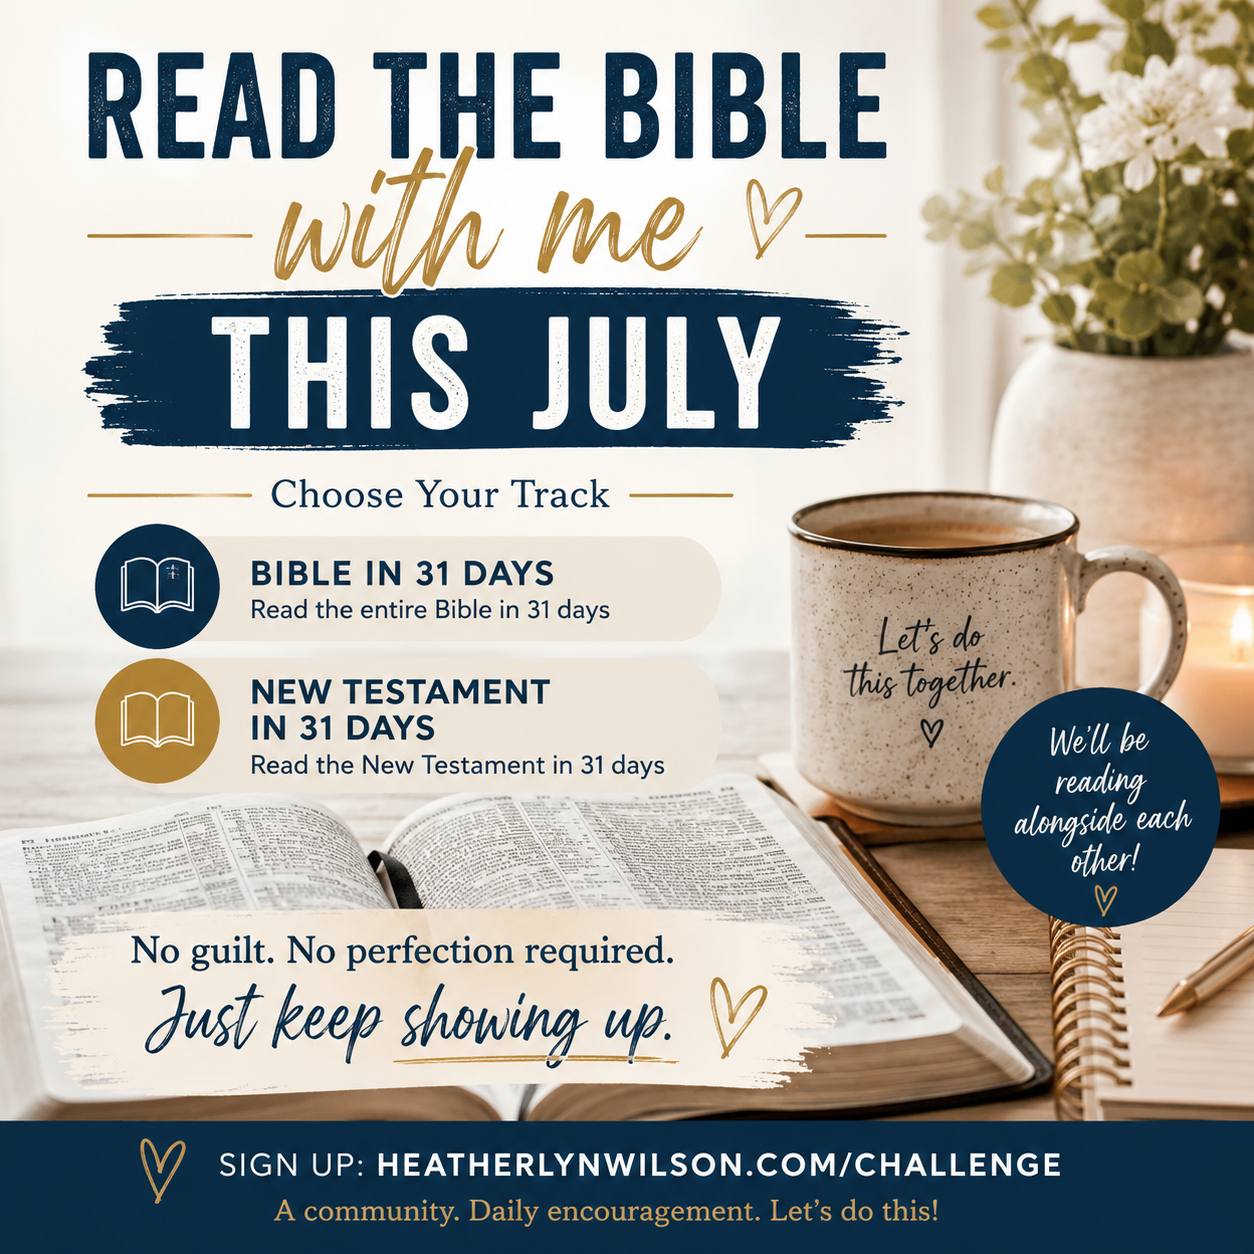
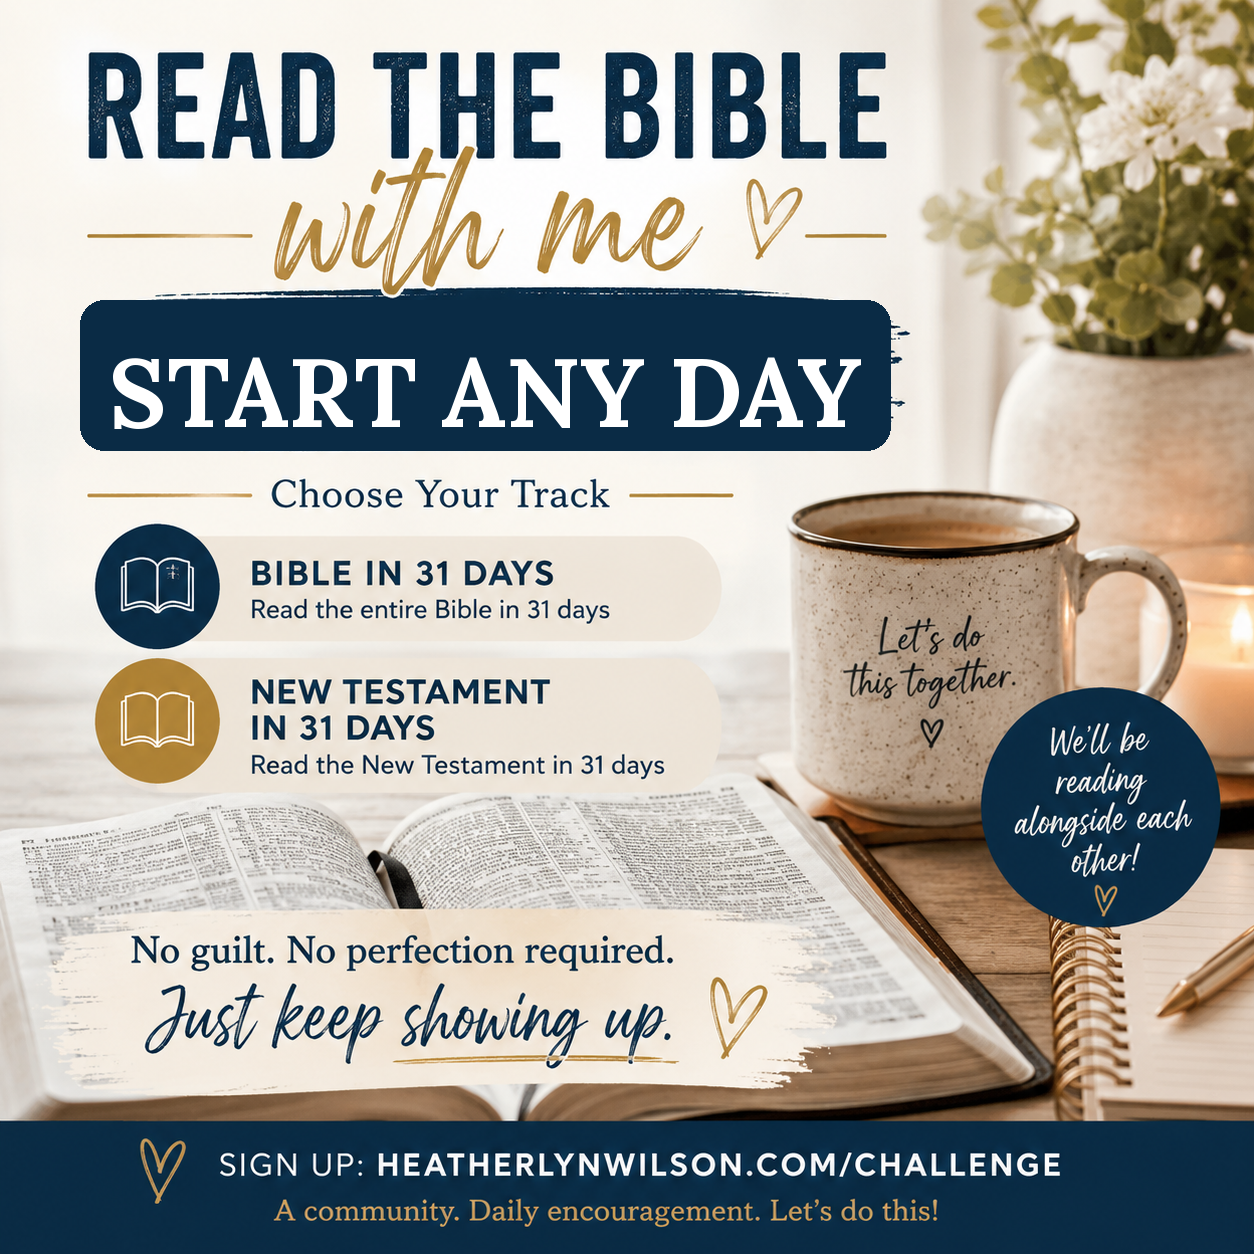
Retire the July-dated challenge graphic everywhere
The old og-challenge image said THIS JULY and was still the social
image for the September, November, and December promos. All code now
uses the dateless START ANY DAY version, and the old file's content
is replaced with the dateless art so no stale reference anywhere can
ever show a July date again.

Claude-Session: https://claude.ai/code/session_017BJLuFcr4fjBdhRT38ZM39

Changed region(s): [[0.0622, 0.2177, 0.7153, 0.3732]]

diff --git a/workers/blog-cron/src/index.js b/workers/blog-cron/src/index.js
@@ -613,7 +613,7 @@ const FB_CHALLENGE_PROMOS = {
   "september-beatitudes-2026": {
     start: "2026-09-01",
     link: SITE + "/challenge-beatitudes",
-    image: SITE + "/images/og-challenge.png",
+    image: SITE + "/images/og-challenge-v2.png",
     posts: [
       "What if you memorized the Beatitudes this September?\n\nHide It In Your Heart: 30 days, one line at a time, a memory game on your dashboard that hides more words each day. By Day 30 you say the whole passage from memory.\n\nPick your translation and join us.",
       "Once Scripture is in you, no one can take it. It is there in the hard moments, the waiting, the times you do not know what to pray.\n\nThis September, memorize the Beatitudes with me. One line at a time. 30 days. Join us.",
@@ -633,7 +633,7 @@ const FB_CHALLENGE_PROMOS = {
   "november-thanks-2026": {
     start: "2026-11-01",
     link: SITE + "/challenge-thanks",
-    image: SITE + "/images/og-challenge.png",
+    image: SITE + "/images/og-challenge-v2.png",
     posts: [
       "This November: one psalm a day, one short note from me, and three things you are thankful for.\n\nBy the end your list will be ninety long, and you can read it at the table.\n\nGive Thanks starts November 1st.",
       "What if you spent November building a gratitude list instead of a wish list?\n\nGive Thanks: a psalm a day, a gratitude prompt, and by Thanksgiving you have ninety things written down. Join us.",
@@ -643,7 +643,7 @@ const FB_CHALLENGE_PROMOS = {
   "december-gospels-2026": {
     start: "2026-12-01",
     link: SITE + "/challenge-gospels",
-    image: SITE + "/images/og-challenge.png",
+    image: SITE + "/images/og-challenge-v2.png",
     posts: [
       "This December, read the Gospels with me.\n\nMark shows you what Jesus did. John tells you who He is. Matthew proves He is the promised King. And Luke sits you at the manger on Christmas Eve.\n\nOr just read Luke, one chapter a day, and finish by Christmas Eve.",
       "What if this Christmas you knew exactly who that baby was?\n\nGod With Us: all four Gospels in December, ending at the manger on Christmas Eve. Or just Luke, one chapter a day.\n\nStarts December 1st.",
@@ -1688,7 +1688,7 @@ async function postBeatitudesRecruitment(env) {
     if (!ins.meta || ins.meta.changes === 0) { console.log("Beatitudes social post already sent today."); return; }
   } catch (e) {}
 
-  const imageUrl = todayPost.useImage ? (SITE + "/images/og-challenge.png") : "";
+  const imageUrl = todayPost.useImage ? (SITE + "/images/og-challenge-v2.png") : "";
 
   try {
     const hasImage = !!imageUrl;

diff --git a/functions/api/fb-posts.js b/functions/api/fb-posts.js
@@ -28,7 +28,7 @@ const CHALLENGE_PROMOS = {
   },
   "september-beatitudes-2026": {
     start: "2026-09-01", link: "https://heatherlynwilson.com/challenge-beatitudes",
-    image: "https://heatherlynwilson.com/images/og-challenge.png",
+    image: "https://heatherlynwilson.com/images/og-challenge-v2.png",
     posts: [
       "What if you memorized the Beatitudes this September?\n\nHide It In Your Heart: 30 days, one line at a time, a memory game on your dashboard that hides more words each day. By Day 30 you say the whole passage from memory.\n\nPick your translation and join us.",
       "Once Scripture is in you, no one can take it. It is there in the hard moments, the waiting, the times you do not know what to pray.\n\nThis September, memorize the Beatitudes with me. One line at a time. 30 days. Join us.",
@@ -46,7 +46,7 @@ const CHALLENGE_PROMOS = {
   },
   "november-thanks-2026": {
     start: "2026-11-01", link: "https://heatherlynwilson.com/challenge-thanks",
-    image: "https://heatherlynwilson.com/images/og-challenge.png",
+    image: "https://heatherlynwilson.com/images/og-challenge-v2.png",
     posts: [
       "This November: one psalm a day, one short note from me, and three things you are thankful for.\n\nBy Thanksgiving your list will be ninety long, and you will read it at the table.\n\nGive Thanks starts November 1st.",
       "What if you spent November building a gratitude list instead of a wish list?\n\nGive Thanks: a psalm a day, a gratitude prompt, and by Thanksgiving you have ninety things written down. Join us.",
@@ -55,7 +55,7 @@ const CHALLENGE_PROMOS = {
   },
   "december-gospels-2026": {
     start: "2026-12-01", link: "https://heatherlynwilson.com/challenge-gospels",
-    image: "https://heatherlynwilson.com/images/og-challenge.png",
+    image: "https://heatherlynwilson.com/images/og-challenge-v2.png",
     posts: [
       "This December, read the Gospels with me.\n\nMark shows you what Jesus did. John tells you who He is. Matthew proves He is the promised King. And Luke sits you at the manger on Christmas Eve.\n\nOr just read Luke, one chapter a day, and finish by Christmas Eve.",
       "What if this Christmas you knew exactly who that baby was?\n\nGod With Us: all four Gospels in December, ending at the manger on Christmas Eve. Or just Luke, one chapter a day.\n\nStarts December 1st.",
